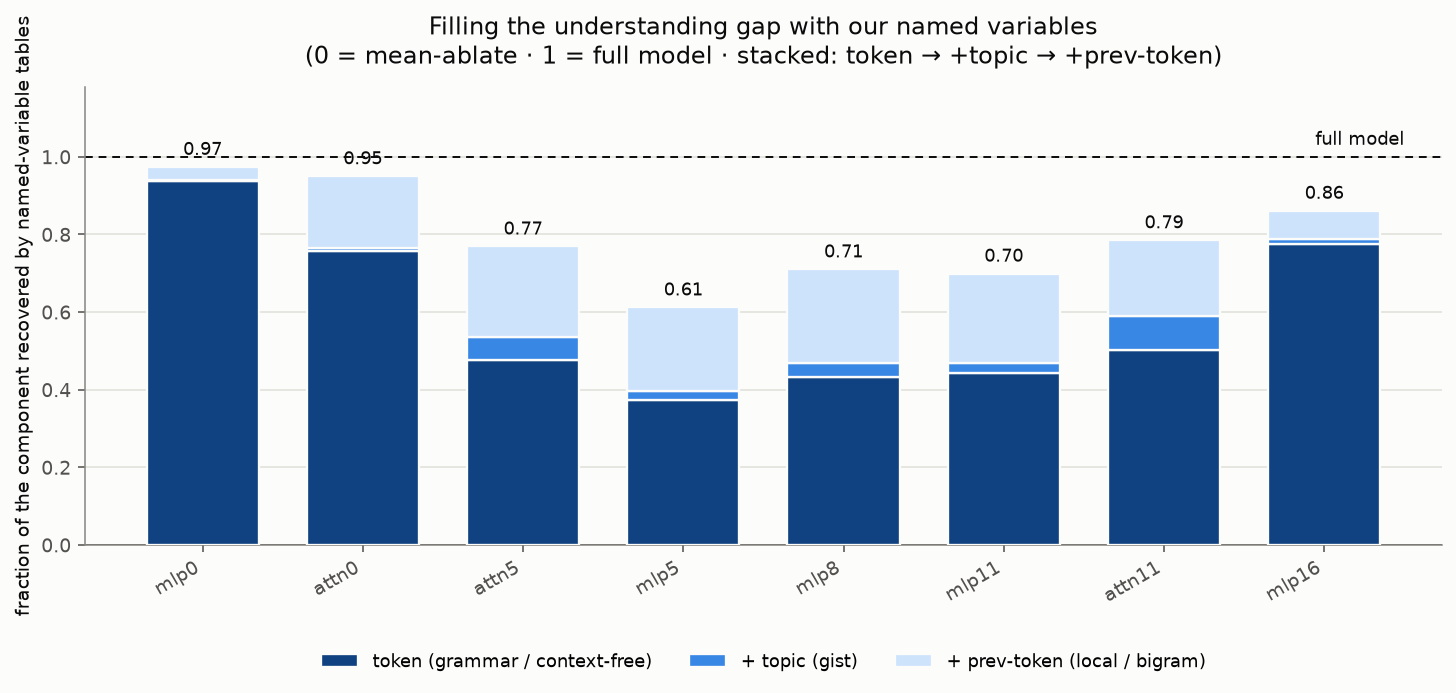
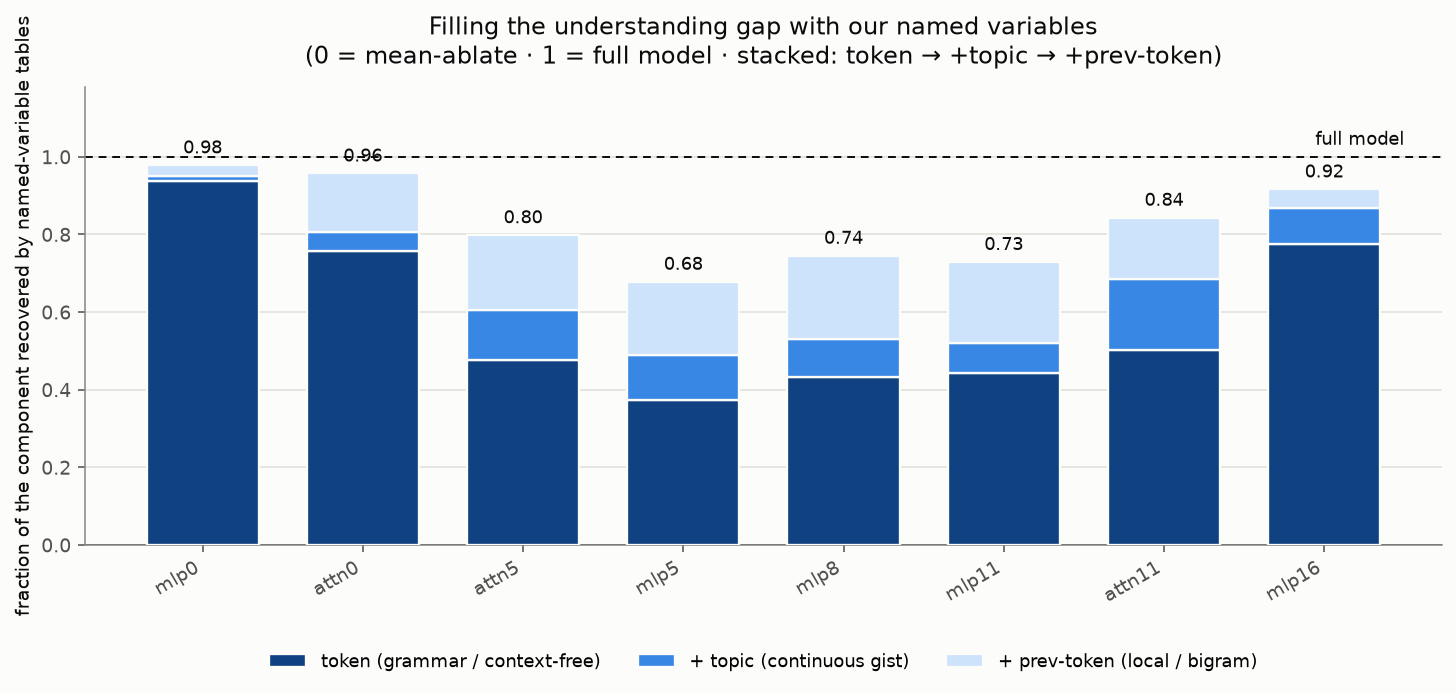
writeup 898 (continuous topic subspace fills 2-6x more of the middle than discrete clusters; token+continuous-topic+prev reaches ~0.68-0.84) + updated gapfill figure (continuous topic) + artifact variable-section topic line
Claude-Session: https://claude.ai/code/session_01U2g27AYkgJeumNFPGf46Dd

diff --git a/basis_aligned/bilinear_quotient/bilin18_report.html b/basis_aligned/bilinear_quotient/bilin18_report.html
@@ -1909,11 +1909,11 @@ nav.toc .tochd{grid-column:1/-1; font-size:.66rem; letter-spacing:.16em;
   table keyed on our named variables and see how much of the loss it keeps, on a scale from mean-ablation (0) to
   the full model (1). The front is almost fully a token table — layer-0 MLP scores 0.94, a clean
   token→class-cluster map. The middle content MLPs score only ~0.4 on a token table, and the gap is filled mostly
-  by conditioning on the <em>previous</em> token (local, bigram-like context: +0.2) rather than on the topic as a
-  small set of clusters (+0.03–0.09) — even though the topic is causally real, because it is continuous and a
-  dozen discrete buckets undercount it. Token + previous-token + topic reaches ~0.6–0.8 of the middle; the
-  remaining fifth is long-range and interaction structure we can name mechanistically (the gist) but not yet as a
-  compact table. The readout sits around 0.7–0.8. In short: the grammar machine is a variable we can write down;
+  by two named variables: the <em>previous</em> token (local, bigram-like context, +0.2) and — once the topic is
+  treated as the <em>continuous</em> subspace it really is rather than a dozen discrete buckets — the topic itself
+  (+0.1–0.18, two-to-six times what the clusters captured). Token + continuous-topic + previous-token reaches
+  ~0.68–0.84 of the middle; the remaining fifth-to-third is long-range and interaction structure we can name
+  mechanistically (the gist) but not yet as a compact table. The readout sits around 0.9. In short: the grammar machine is a variable we can write down;
   the content machine is a variable we can causally move but not yet tabulate.</p>
 </section>
 

diff --git a/basis_aligned/bilinear_quotient/make_gapfill_fig.py b/basis_aligned/bilinear_quotient/make_gapfill_fig.py
@@ -8,7 +8,7 @@ sys.path.insert(0, '/workspace/tensor_language')
 from palette import INK, SECONDARY, MUTED, GRID, SURFACE
 
 PT = '/workspace/tensor_language/basis_aligned/bilinear_quotient/'
-d = json.load(open(PT + 'layer_understanding_v2_results.json'))['components']
+d = json.load(open(PT + 'layer_understanding_v3_results.json'))['components']
 order = ['mlp0', 'attn0', 'attn5', 'mlp5', 'mlp8', 'mlp11', 'attn11', 'mlp16']
 tok = [d[c]['token']['frac'] for c in order]
 top = [max(d[c]['token+topic']['frac'] - d[c]['token']['frac'], 0) for c in order]
@@ -19,7 +19,7 @@ fig.patch.set_facecolor(SURFACE); ax.set_facecolor(SURFACE)
 xs = range(len(order))
 c_tok, c_top, c_prev = '#104281', '#3987e5', '#cde2fb'
 ax.bar(xs, tok, width=0.7, color=c_tok, edgecolor=SURFACE, linewidth=1.2, zorder=3, label='token (grammar / context-free)')
-ax.bar(xs, top, width=0.7, bottom=tok, color=c_top, edgecolor=SURFACE, linewidth=1.2, zorder=3, label='+ topic (gist)')
+ax.bar(xs, top, width=0.7, bottom=tok, color=c_top, edgecolor=SURFACE, linewidth=1.2, zorder=3, label='+ topic (continuous gist)')
 ax.bar(xs, prev, width=0.7, bottom=[tok[i]+top[i] for i in xs], color=c_prev, edgecolor=SURFACE, linewidth=1.2, zorder=3, label='+ prev-token (local / bigram)')
 ax.axhline(1.0, color=INK, lw=1.0, ls=(0, (4, 3)), zorder=2)
 ax.axhline(0.0, color=SECONDARY, lw=1.0, zorder=2)
@@ -37,4 +37,5 @@ for s in ['left', 'bottom']: ax.spines[s].set_color(MUTED)
 ax.tick_params(colors=SECONDARY); ax.yaxis.grid(True, color=GRID, lw=0.8, zorder=0)
 ax.legend(loc='upper center', ncol=3, frameon=False, fontsize=9.5, bbox_to_anchor=(0.5, -0.2))
 plt.tight_layout()
-out = PT + 'gapfill.png'; plt.savefig(out, bbox_inches='tight', facecolor=SURFACE); print('wrote', out)
+out = PT + 'gapfill.png'
+plt.savefig(out, bbox_inches='tight', facecolor=SURFACE); print('wrote', out)

diff --git a/basis_aligned/bilinear_quotient/BILIN18_CONNECTION.md b/basis_aligned/bilinear_quotient/BILIN18_CONNECTION.md
@@ -26975,3 +26975,22 @@ NEITHER weight source tightly matches the variable at any layer; the activation/
 (§895 DAS≈activation). So weights give a PARTIAL, layer-dependent handle (write near the front, read near the
 back), but the variable itself is a maintained representation best read from activations. The rotation profile
 (fast front + readout, frozen middle) matches the geometry re-clustering (§857) — cross-consistent.
+
+## §898 — the CONTINUOUS topic subspace fills 2-6× more of the middle than discrete clusters (confirms §896 caveat) (layer_understanding_v3.py)
+
+Replaced the §896 discrete 12-cluster topic TABLE with a keep-only projection onto the continuous topic
+SUBSPACE (rank K-1), null = random subspace of same rank. Topic fill (frac gain over token-only), discrete
+(§896) → continuous (§898):
+  attn5  +0.06 → +0.13 (genuine +0.12)      mlp5  +0.02 → +0.12 (+0.10)
+  mlp8   +0.04 → +0.10 (+0.09)              mlp11 +0.03 → +0.08 (+0.07)
+  attn11 +0.09 → +0.18 (+0.18)             mlp16 +0.01 → +0.09 (+0.09)
+  attn0  +0.01 → +0.05                      mlp0 ~+0.01 (front, still ~0)
+So the CONTINUOUS topic subspace fills 2-6× more than discrete clusters — confirming §896's caveat (12 buckets
+undercount the continuous high-dim topic, §874). All gains are GENUINE (well above the random-subspace null).
+With token + continuous-topic + prev-token, the middle content components now reach ~0.68-0.84 (mlp5 0.68, mlp8
+0.74, mlp11 0.73, attn5 0.80, attn11 0.84) — up from ~0.4 token-only. Front unaffected (mlp0 still ~0 topic
+gain = context-free). So the middle content computation is now ~3/4 accounted for by named variables: current
+token + CONTINUOUS topic/gist + previous-token/local context; the residual ~0.2-0.3 is long-range +
+interaction structure. This meaningfully FILLS the gap (user directive) and vindicates treating topic as
+continuous, not discrete (§873/§874). Updating the gap-fill figure to the continuous-topic numbers + the
+artifact variable-section topic line.

diff --git a/basis_aligned/bilinear_quotient/RESULTS.md b/basis_aligned/bilinear_quotient/RESULTS.md
@@ -4631,3 +4631,4 @@ Full detail in `BILIN18_CONNECTION.md` §260.
   §895 das_class_learned — DAS≈activation (0.271 vs 0.281: activation subspace is optimal, no hidden better one). CORRECT-WEIGHT answer: mlp0 front-WRITE FAILS at L15 (overlap 0.043≈chance) — the class variable subspace ROTATES through the stack; at L15 (near readout) the READ side aligns partially (lm_head overlap 0.188, IIA 0.156 > §892). Pred 'write beats read' FALSE (opposite). Lesson: use the weights of the component acting AT that layer. Rotation test queued
   §896 layer_understanding_v2 [FILL GAP] — middle content MLPs filled by PREV-TOKEN (+0.20-0.24, local/bigram) far more than TOPIC-clusters (+0.02-0.09): token+prev reaches ~0.6-0.79 (from token-only ~0.4). Topic causally real (§894) but 12 discrete clusters undercount the continuous variable's reconstruction. attn0 +prev 0.95 (prev-token head confirmed). Residual ~0.25 = long-range/continuous-topic/interactions
   §897 class_subspace_rotation — class subspace ROTATES write→read: write-overlap 0.29(L0)→0.02(L17), read-overlap 0.07→0.18, consecutive 0.49(front,fast)→0.85(mid,stable)→0.75(readout). Confirms §895 (front-write fails at L15). NEITHER weight tight (max 0.29/0.18) — activation always best; weights = partial layer-dependent handle. Matches §857 geometry
+  §898 layer_understanding_v3 — CONTINUOUS topic subspace fills 2-6× more of the middle than discrete clusters (§896): topic gains mlp5 +0.02->+0.12, attn5 +0.06->+0.13, attn11 +0.09->+0.18 (genuine vs random-subspace null). token+continuous-topic+prev reaches ~0.68-0.84 for the middle (from ~0.4 token-only). Middle content ~3/4 accounted (token+continuous-topic+prev); residual ~0.2-0.3 long-range/interactions. Confirms topic is continuous not discrete
